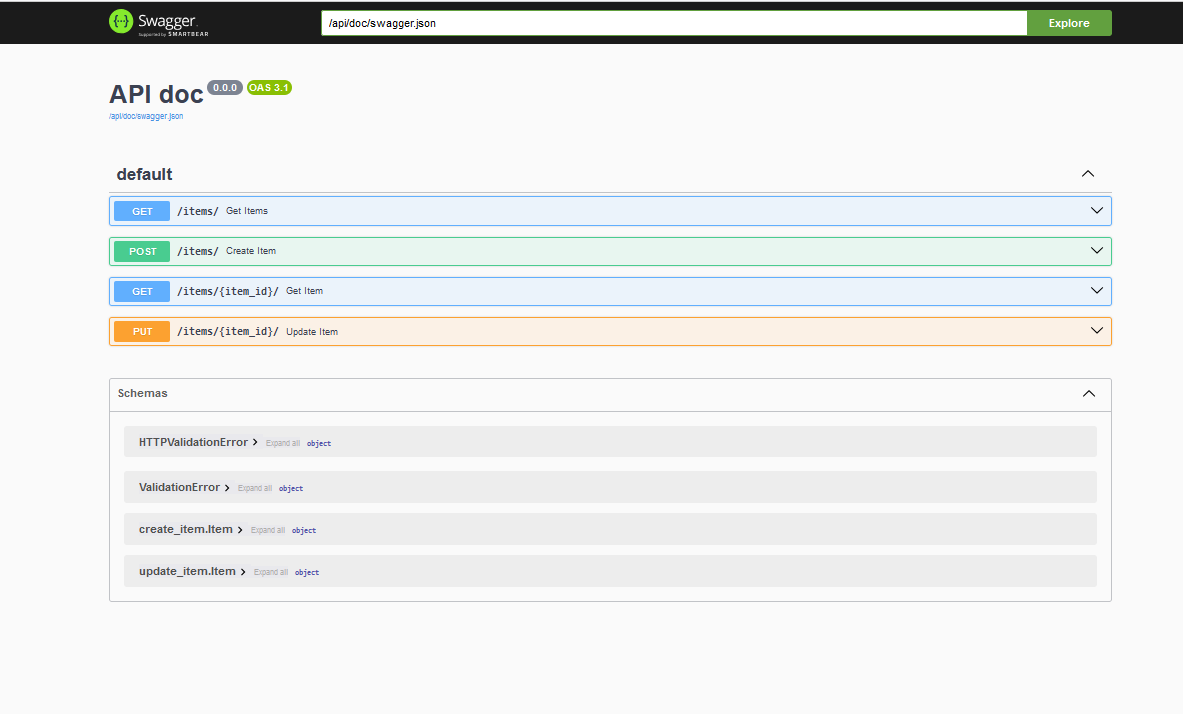
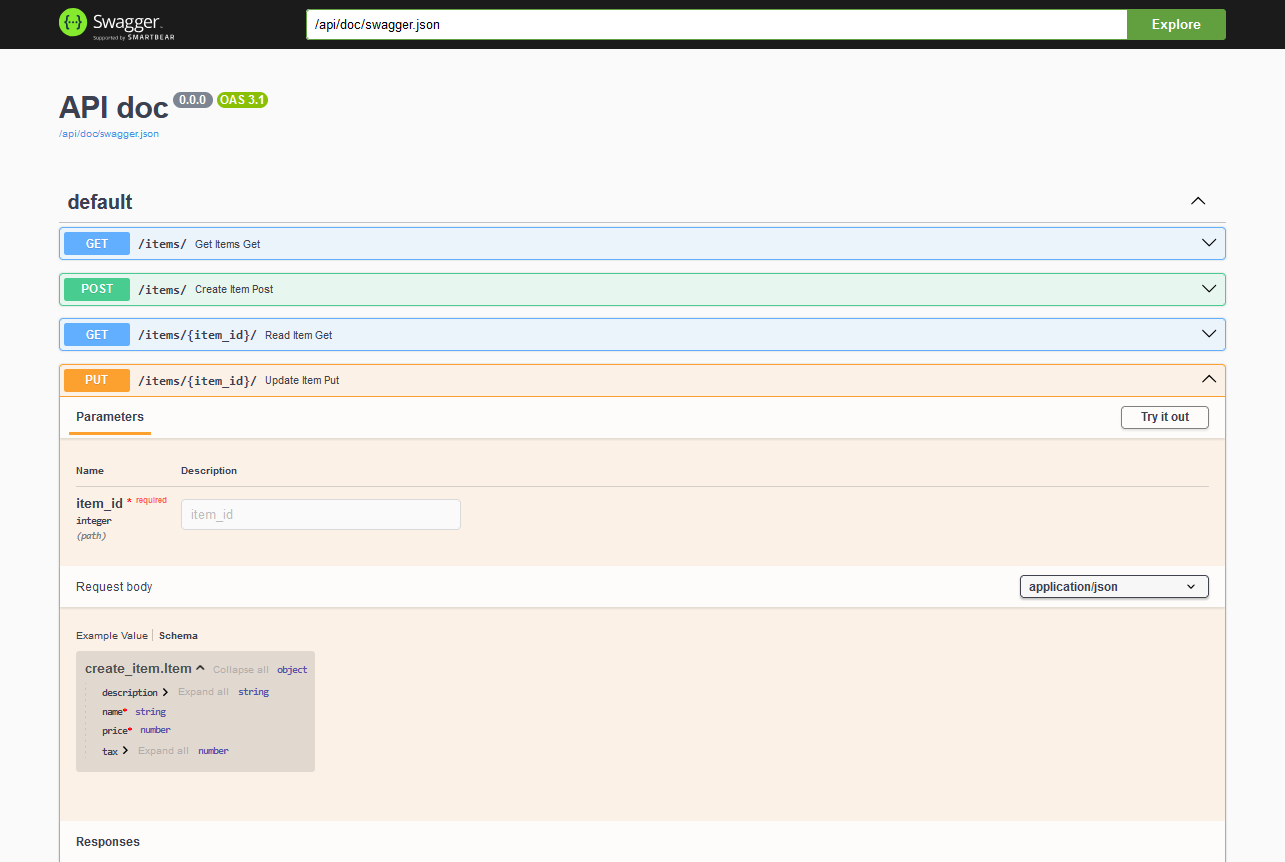
Update documentation examples

diff --git a/docs/openapi.md b/docs/openapi.md
@@ -35,24 +35,24 @@ import swagger_ui
 import flask_typed_routes as ftr
 
 app = flask.Flask(__name__)
-app_ftr = ftr.FlaskTypedRoutes(app)
+app_ftr = ftr.FlaskTypedRoutes(app, exclude_doc_url_prefix='/api/doc')
 swagger_ui.api_doc(app, config=app_ftr.openapi_schema, url_prefix='/api/doc')
 
 
 class Item(pydantic.BaseModel):
     name: str
-    description: str = None
     price: float
+    description: str = None
     tax: float = None
 
-    
+
 @app.get('/items/')
 def get_items(skip: int = 0, limit: int = 100):
     return flask.jsonify({'skip': skip, 'limit': limit})
 
 
 @app.get('/items/<item_id>/')
-def get_item(item_id: int):
+def read_item(item_id: int):
     return flask.jsonify({'item_id': item_id})
 
 
@@ -73,7 +73,7 @@ documentation generated by the `swagger-ui-py` library using the OpenApi schema 
 
 ## Using `typed_route` decorator
 
-The `typed_route` decorator allows you to parameterize the various fields supported by OpenApi to describe an operation.
+The `typed_route` decorator allows you to parameterize the fields supported by OpenApi to describe an operation.
 
 ```python
 import flask.views
@@ -82,13 +82,14 @@ import swagger_ui
 import flask_typed_routes as ftr
 
 app = flask.Flask(__name__)
-app_ftr = ftr.FlaskTypedRoutes(app)
-swagger_ui.api_doc(app, config=app_ftr.openapi_schema, url_prefix='/api/doc', title='API doc')
+app_ftr = ftr.FlaskTypedRoutes(app, exclude_doc_url_prefix='/api/doc')
+swagger_ui.api_doc(app, config=app_ftr.openapi_schema, url_prefix='/api/doc')
 
 
 @app.get('/items/<item_id>/')
 @ftr.typed_route(
     summary='Get item by ID',
+    description='Get item by ID from the database by its ID.',
     tags=['items'],
 )
 def get_item(item_id: int):

diff --git a/README.md b/README.md
@@ -209,7 +209,7 @@ import swagger_ui
 import flask_typed_routes as ftr
 
 app = flask.Flask(__name__)
-app_ftr = ftr.FlaskTypedRoutes(app, title="Items API", openapi_version='3.1.1')
+app_ftr = ftr.FlaskTypedRoutes(app, exclude_doc_url_prefix='/api/doc', title="Items API", openapi_version='3.1.1')
 swagger_ui.api_doc(app, config=app_ftr.openapi_schema, url_prefix='/api/doc')
 
 
@@ -233,7 +233,13 @@ def update_item(item_id: int, item: Item):
 
 Open your browser and go to `http://127.0.0.1:5000/api/doc/`
 
+**Read Items** endpoint:
+
 ![OpenApi Example](https://github.com/rmoralespp/flask_typed_routes/blob/main/docs/openapi_example0.png)
+
+**Update Item** endpoint:
+
+![OpenApi Example](https://github.com/rmoralespp/flask_typed_routes/blob/main/docs/openapi_example01.png)
 
 ## Documentation
 

diff --git a/docs/index.md b/docs/index.md
@@ -208,7 +208,7 @@ import swagger_ui
 import flask_typed_routes as ftr
 
 app = flask.Flask(__name__)
-app_ftr = ftr.FlaskTypedRoutes(app, title="Items API", openapi_version='3.1.1')
+app_ftr = ftr.FlaskTypedRoutes(app, exclude_doc_url_prefix='/api/doc', title="Items API", openapi_version='3.1.1')
 swagger_ui.api_doc(app, config=app_ftr.openapi_schema, url_prefix='/api/doc')
 
 
@@ -232,4 +232,10 @@ def update_item(item_id: int, item: Item):
 
 Open your browser and go to `http://127.0.0.1:5000/api/doc/`
 
+**Read Items** endpoint:
+
 ![OpenApi Example](./openapi_example0.png)
+
+**Update Item** endpoint:
+
+![OpenApi Example](./openapi_example01.png)
